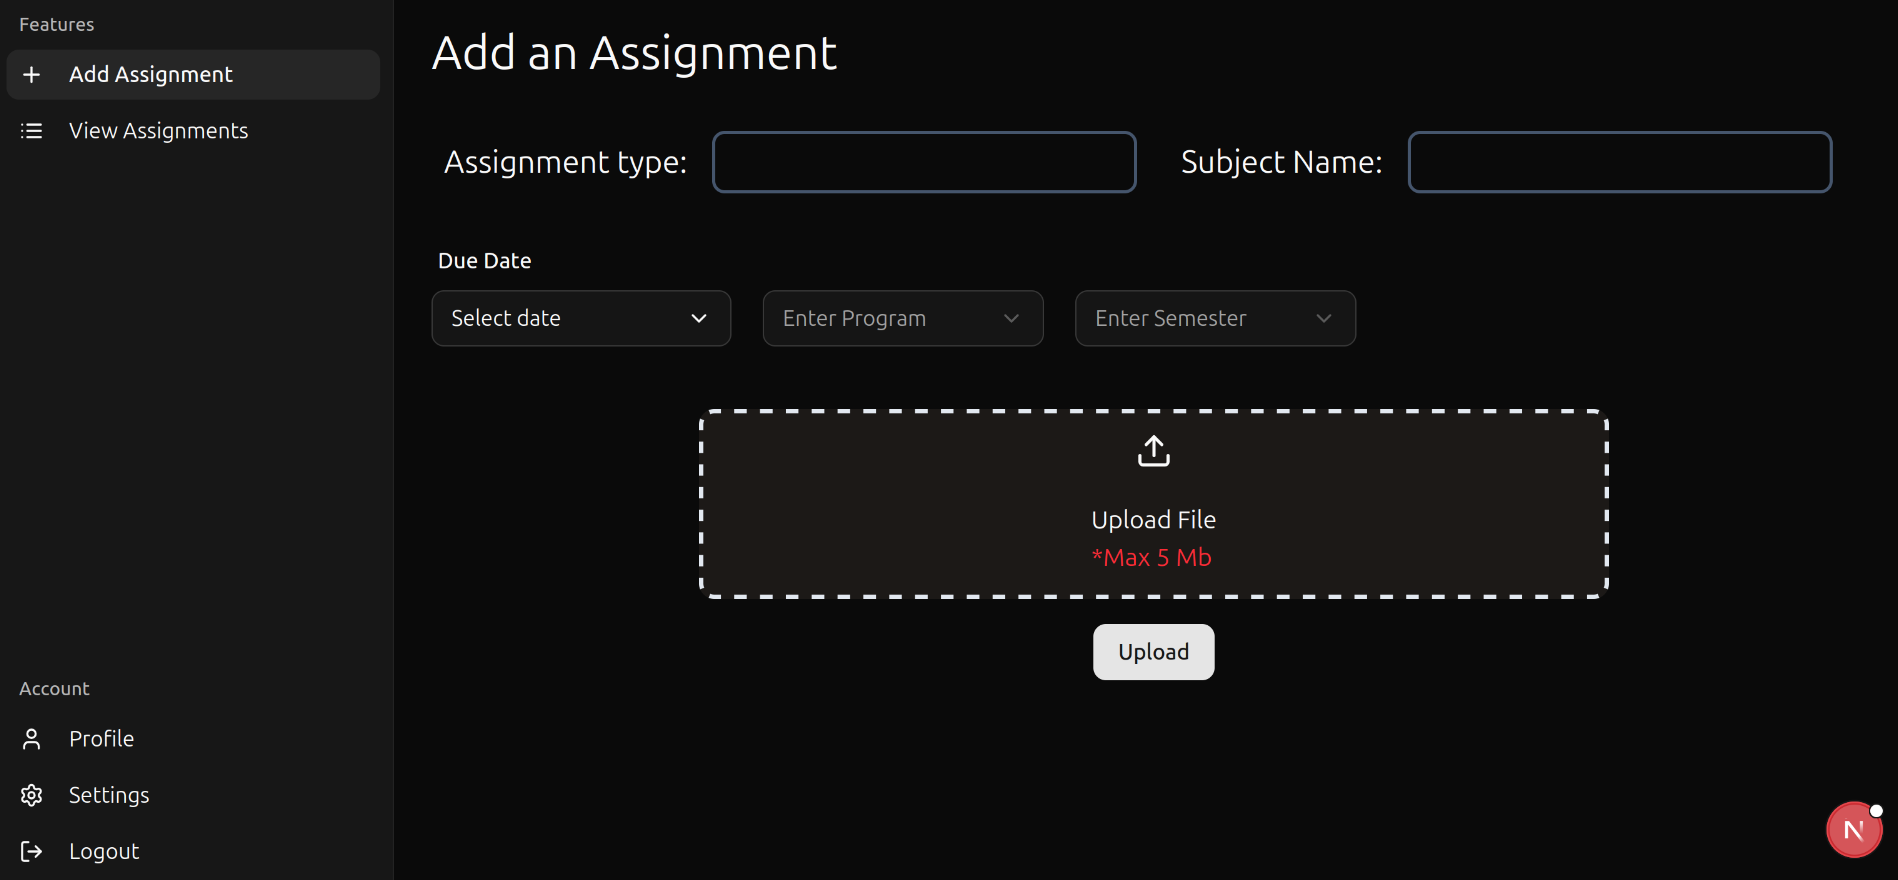
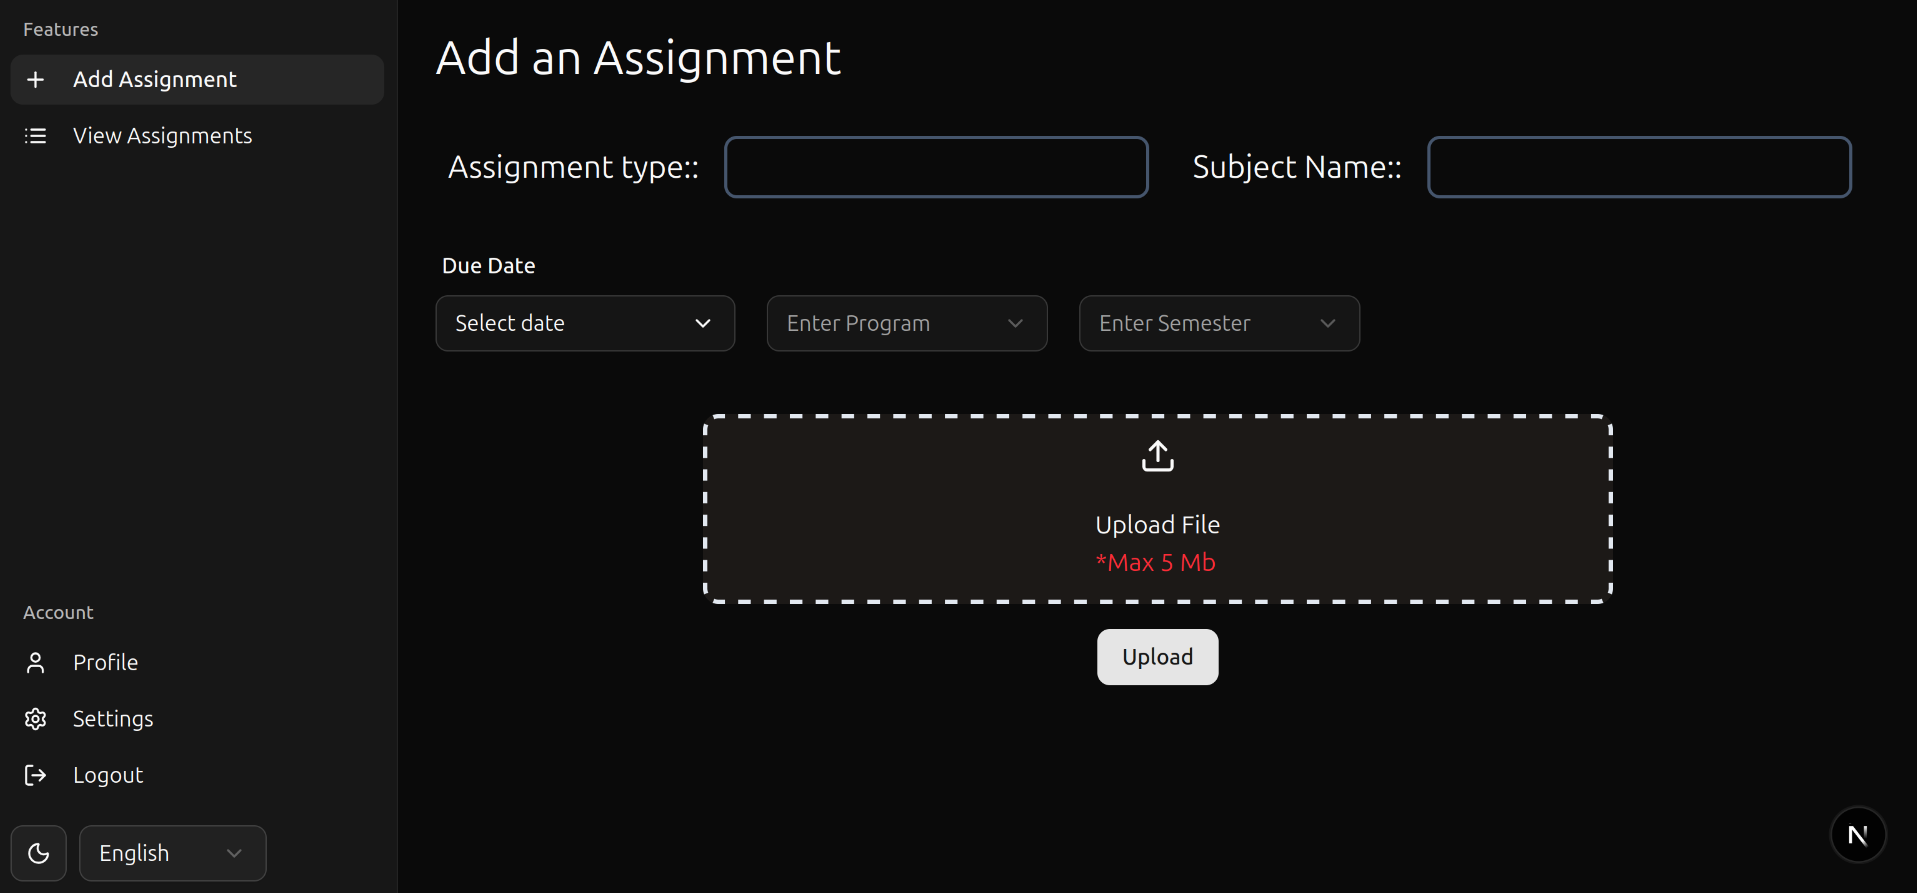
language support

diff --git a/client/src/components/app-sidebar.tsx b/client/src/components/app-sidebar.tsx
@@ -13,31 +13,26 @@ import {
   SidebarMenuItem,
   SidebarMenuButton,
 } from "@/components/ui/sidebar"
-import { Plus, List, User, Settings, LogOut, Sun, Moon } from "lucide-react"
-import { Button } from "@/components/ui/button"
-import {
-  Select,
-  SelectContent,
-  SelectItem,
-  SelectTrigger,
-  SelectValue,
-} from "@/components/ui/select"
-import { useTheme } from "next-themes"
+import { Plus, List, User, Settings, LogOut } from "lucide-react"
+import { Select, SelectTrigger, SelectValue, SelectContent, SelectItem } from "@/components/ui/select"
+import { useLanguageStore } from "@/store/useLanguageStore"
+import { translations } from "@/lib/translations"
+import { ToggleButton } from "./toggle-button"
 
 export function AppSidebar() {
   const pathname = usePathname()
-  const { theme, setTheme } = useTheme()
-  const [language, setLanguage] = React.useState("en")
+  const { language, setLanguage } = useLanguageStore()
+  const t = translations[language]
 
   const links = [
-    { href: "/dashboard/add", label: "Add Assignment", icon: Plus },
-    { href: "/dashboard/view", label: "View Assignments", icon: List },
+    { href: "/dashboard/add", label: t.addAssignment, icon: Plus },
+    { href: "/dashboard/view", label: t.viewAssignments, icon: List },
   ]
 
   const accountLinks = [
-    { href: "/profile", label: "Profile", icon: User },
-    { href: "/settings", label: "Settings", icon: Settings },
-    { href: "/logout", label: "Logout", icon: LogOut },
+    { href: "/profile", label: t.profile, icon: User },
+    { href: "/settings", label: t.settings, icon: Settings },
+    { href: "/logout", label: t.logout, icon: LogOut },
   ]
 
   return (
@@ -46,7 +41,7 @@ export function AppSidebar() {
         {/* Features */}
         <div>
           <SidebarGroup>
-            <SidebarGroupLabel>Features</SidebarGroupLabel>
+            <SidebarGroupLabel>{t.features}</SidebarGroupLabel>
             <SidebarGroupContent>
               <SidebarMenu>
                 {links.map((link) => (
@@ -64,10 +59,10 @@ export function AppSidebar() {
           </SidebarGroup>
         </div>
 
-        {/* Account */}
+        {/* Account + Controls */}
         <div>
           <SidebarGroup>
-            <SidebarGroupLabel>Account</SidebarGroupLabel>
+            <SidebarGroupLabel>{t.account}</SidebarGroupLabel>
             <SidebarGroupContent>
               <SidebarMenu>
                 {accountLinks.map((link) => (
@@ -81,40 +76,25 @@ export function AppSidebar() {
                   </SidebarMenuItem>
                 ))}
               </SidebarMenu>
+
+              {/* Theme + Language Switch */}
+              <div className="mt-4 flex gap-2">
+                <ToggleButton />
+                <Select
+                  value={language}
+                  onValueChange={(val) => setLanguage(val as "en" | "ko")}
+                >
+                  <SelectTrigger className="w-[120px]">
+                    <SelectValue placeholder="Language" />
+                  </SelectTrigger>
+                  <SelectContent>
+                    <SelectItem value="en">English</SelectItem>
+                    <SelectItem value="ko">한국어</SelectItem>
+                  </SelectContent>
+                </Select>
+              </div>
             </SidebarGroupContent>
           </SidebarGroup>
-
-          {/* Theme + Language Controls */}
-          <div className="p-3 space-y-3">
-            {/* Theme toggle */}
-            <Button
-              variant="outline"
-              size="sm"
-              className="w-full flex items-center gap-2 cursor-pointer"
-              onClick={() => setTheme(theme === "dark" ? "light" : "dark")}
-            >
-              {theme === "dark" ? (
-                <>
-                  <Sun className="h-4 w-4" /> Light Mode
-                </>
-              ) : (
-                <>
-                  <Moon className="h-4 w-4" /> Dark Mode
-                </>
-              )}
-            </Button>
-
-            {/* Language Select */}
-            <Select value={language} onValueChange={setLanguage}>
-              <SelectTrigger className="w-full">
-                <SelectValue placeholder="Select Language" />
-              </SelectTrigger>
-              <SelectContent>
-                <SelectItem value="en">English</SelectItem>
-                <SelectItem value="ko">Korean</SelectItem>
-              </SelectContent>
-            </Select>
-          </div>
         </div>
       </SidebarContent>
     </Sidebar>

diff --git a/client/src/app/(authenticated)/dashboard/add/page.tsx b/client/src/app/(authenticated)/dashboard/add/page.tsx
@@ -3,14 +3,18 @@ import { DatePicker } from '@/components/date-picker'
 import { SelectComponent } from '@/components/select'
 import { Button } from '@/components/ui/button'
 import UploadComponent from '@/components/UploadComponent'
+import { translations } from '@/lib/translations'
 import { useAuthStore } from '@/store/useAuthStore'
+import { useLanguageStore } from '@/store/useLanguageStore'
 import axios from 'axios'
 import { Loader } from 'lucide-react'
 import { useRouter } from 'next/navigation'
-import React, { FormEvent, useState } from 'react'
+import React, { FormEvent, useEffect, useState } from 'react'
 import { toast } from 'sonner'
 
 function AddAssignment() {
+  const { language } = useLanguageStore();
+  const t = translations[language]
   const { user } = useAuthStore();
   const router = useRouter();
   const [open, setOpen] = useState(false);
@@ -35,9 +39,9 @@ function AddAssignment() {
 
   const handleSubmit = async (e: FormEvent) => {
     e.preventDefault()
-    if (!user || user.role == "user"){
+    if (!user || user.role == "user") {
       toast("You need to be an admin to upload!")
-      return 
+      return
     }
     if (!program || !semester || !date) {
       toast("All fields are required!");
@@ -87,11 +91,11 @@ function AddAssignment() {
   }
   return (
     <div>
-      <h2 className='text-3xl'> Add an Assignment </h2>
+      <h2 className='text-3xl'> {t.addAnAssignment} </h2>
       <form onSubmit={handleSubmit} className='my-5 flex flex-col gap-6  justify-center'>
         <div className='flex md:flex-row flex-col gap-3 items-start my-3'>
           <div className='text-xl'>
-            <label className='p-2' htmlFor='type'>Assignment type:</label>
+            <label className='p-2' htmlFor='type'>{t.assignmentType}:</label>
             <input
               onChange={(e) => setType(e.target.value)}
               required id='type'
@@ -99,7 +103,7 @@ function AddAssignment() {
               type='text' />
           </div>
           <div className='text-xl'>
-            <label className='p-2' htmlFor='subject'>Subject Name:</label>
+            <label className='p-2' htmlFor='subject'>{t.subjectName}:</label>
             <input
               onChange={(e) => setSubject(e.target.value)}
               required
@@ -109,9 +113,9 @@ function AddAssignment() {
           </div>
         </div>
         <div className='flex flex-col md:flex-row items-start gap-5 md:items-end'>
-          <DatePicker label={"Due Date"} date={date} open={open} setDate={setDate} setOpen={setOpen} />
-          <SelectComponent value={program} setValue={setProgram} args={["BCA", "BBA"]} defaultLabel='Class' label='Enter Program' />
-          <SelectComponent value={semester} setValue={setSemester} args={["I", "II", "III", "IV", "V", "VI", "VII", "VIII"]} defaultLabel='Semester' label='Enter Semester' />
+          <DatePicker label={t.dueDate} date={date} open={open} setDate={setDate} setOpen={setOpen} />
+          <SelectComponent value={program} setValue={setProgram} args={["BCA", "BBA"]} defaultLabel='Class' label={t.enterProgram} />
+          <SelectComponent value={semester} setValue={setSemester} args={["I", "II", "III", "IV", "V", "VI", "VII", "VIII"]} defaultLabel='Semester' label={t.enterSemester} />
         </div>
         <div className='flex flex-col'>
           <UploadComponent file={file} setFile={setFile} />
@@ -119,7 +123,7 @@ function AddAssignment() {
             type='submit'
             disabled={loading}
             className='cursor-pointer mx-auto'>
-            {loading ? <Loader className='animate-spin' /> : "Upload"}
+            {loading ? <Loader className='animate-spin' /> : `${t.uploadButton}`}
           </Button>
         </div>
       </form>

diff --git a/client/src/app/(authenticated)/dashboard/get-started.tsx b/client/src/app/(authenticated)/dashboard/get-started.tsx
@@ -1,3 +1,6 @@
+"use client"
+import { translations } from '@/lib/translations'
+import { useLanguageStore } from '@/store/useLanguageStore'
 import { Cross, Eye, MessageSquareDot } from 'lucide-react'
 import Link from 'next/link'
 import { ReactNode } from 'react'
@@ -8,20 +11,22 @@ interface ICard {
     logo: ReactNode
 }
 
-const cardArray: ICard[] = [
-    { href: "/dashboard/add", logo: <Cross size={24} aria-hidden />, title: "Add Assignments" },
-    { href: "/dashboard/view", logo: <Eye size={24} aria-hidden />, title: "View Assignments" },
-    { href: "/dashboard/chat", logo: <MessageSquareDot size={24} aria-hidden />, title: "Global Chatroom" },
-]
-
 export default function GetStarted() {
+    const { language } = useLanguageStore();
+    const t = translations[language];
+    const cardArray: ICard[] = [
+        { href: "/dashboard/add", logo: <Cross size={24} aria-hidden />, title: t.addAssignments },
+        { href: "/dashboard/view", logo: <Eye size={24} aria-hidden />, title: t.viewAssignments },
+        { href: "/dashboard/chat", logo: <MessageSquareDot size={24} aria-hidden />, title: t.globalChatroom },
+    ]
+
     return (
         <section className="w-full bg-zinc-50 py-16 md:py-32 dark:bg-transparent">
             <div className="mx-auto max-w-6xl px-6 text-center">
                 {/* Heading */}
                 <div>
-                    <h2 className="text-4xl font-semibold lg:text-5xl">Get Started</h2>
-                    <p className="mt-4">What do you want to do today?</p>
+                    <h2 className="text-4xl font-semibold lg:text-5xl">{t.getStarted}</h2>
+                    <p className="mt-4">{t.whatToDo}</p>
                 </div>
 
                 {/* Cards Grid */}

diff --git a/client/src/lib/translations.ts b/client/src/lib/translations.ts
@@ -1,0 +1,53 @@
+// translations.ts
+
+export const translations = {
+    en: {
+        getStarted: "Get Started",
+        whatToDo: "What do you want to do today?",
+        addAssignments: "Add Assignments",
+        globalChatroom: "Global Chatroom",
+
+        addAnAssignment: "Add an Assignment",
+        assignmentType: "Assignment type:",
+        subjectName: "Subject Name:",
+        dueDate: "Due Date",
+        selectDate: "Select date",
+        enterProgram: "Enter Program",
+        enterSemester: "Enter Semester",
+        uploadFile: "Upload File",
+        uploadLimit: "*Max 5 Mb",
+        uploadButton: "Upload",
+        addAssignment: "Add Assignment",
+        viewAssignments: "View Assignments",
+        profile: "Profile",
+        settings: "Settings",
+        logout: "Logout",
+        features: "Features",
+        account: "Account",
+    },
+
+    ko: {
+        getStarted: "시작하기",
+        whatToDo: "오늘 무엇을 하시겠습니까?",
+        addAssignments: "과제 추가",
+        viewAssignments: "과제 보기",
+        globalChatroom: "글로벌 채팅방",
+
+        addAnAssignment: "과제 추가하기",
+        assignmentType: "과제 유형:",
+        subjectName: "과목 이름:",
+        dueDate: "마감일",
+        selectDate: "날짜 선택",
+        enterProgram: "프로그램 입력",
+        enterSemester: "학기 입력",
+        uploadFile: "파일 업로드",
+        uploadLimit: "*최대 5Mb",
+        uploadButton: "업로드",
+        addAssignment: "과제 추가",
+        profile: "프로필",
+        settings: "설정",
+        logout: "로그아웃",
+        features: "기능",
+        account: "계정",
+    },
+}

diff --git a/client/src/components/UploadComponent.tsx b/client/src/components/UploadComponent.tsx
@@ -1,6 +1,8 @@
 "use client"
 import { ChangeEvent, Dispatch, SetStateAction, useRef, useState } from "react"
 import { Upload } from "lucide-react"
+import { useLanguageStore } from "@/store/useLanguageStore";
+import { translations } from "@/lib/translations";
 
 interface props {
     file: File | undefined;
@@ -8,6 +10,8 @@ interface props {
 }
 
 function UploadComponent({ file, setFile }: props) {
+    const {language} = useLanguageStore();
+    const t = translations[language];
     const [localFileURL, setLocalFileURL] = useState<string | undefined>(undefined)
     const fileInputRef = useRef<null | HTMLInputElement>(null)
 
@@ -44,7 +48,7 @@ function UploadComponent({ file, setFile }: props) {
                     <Upload
                         className="size-6 group-hover:scale-110 transition-all duration-200 cursor-pointer"
                     />
-                    <div>Upload File <p className="text-red-500">*Max 5 Mb</p></div>
+                    <div> {t.uploadFile} <p className="text-red-500">{t.uploadLimit}</p></div>
                 </div>
 
                 {localFileURL && file && (

diff --git a/client/src/app/(auth)/logout/page.tsx b/client/src/app/(auth)/logout/page.tsx
@@ -1,28 +1,25 @@
 "use client"
 import React, { useEffect } from "react"
 import { useRouter } from "next/navigation"
-import { useAuthStore } from "@/store/useAuthStore"
 import axios from "axios"
 import { Loader2 } from "lucide-react"
 
 function LogoutPage() {
   const router = useRouter()
-  const clearUser = useAuthStore((state) => state.clearUser) // assuming you have clearUser in your store
 
   useEffect(() => {
     const logout = async () => {
       try {
         await axios.post("/user/logout", {}, { withCredentials: true })
-        clearUser() // clear state in store
         router.replace("/login") // redirect after logout
       } catch (error) {
         console.error("Logout failed:", error)
-        router.replace("/login")
+        router.replace("/dashboard")
       }
     }
 
     logout()
-  }, [router, clearUser])
+  }, [router])
 
   return (
     <div className="flex h-screen items-center justify-center">

diff --git a/client/src/store/useLanguageStore.ts b/client/src/store/useLanguageStore.ts
@@ -1,0 +1,14 @@
+"use client"
+import { create } from "zustand"
+
+type Language = "en" | "ko"
+
+interface LanguageStore {
+  language: Language
+  setLanguage: (lang: Language) => void
+}
+
+export const useLanguageStore = create<LanguageStore>((set) => ({
+  language: "en",
+  setLanguage: (lang) => set({ language: lang }),
+}))
